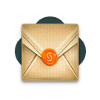
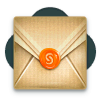
add boonk and mails to market place

diff --git a/client/public/javascripts/app.js b/client/public/javascripts/app.js
@@ -134,6 +134,20 @@ window.require.register("collections/application", function(exports, require, mo
             git: "https://github.com/mycozycloud/cozy-todos.git",
             comment: "official application",
             description: "Write your tasks, order them and execute them efficiently."
+          }, {
+            icon: "img/mails-icon.png",
+            name: "mails",
+            slug: "mails",
+            git: "https://github.com/mycozycloud/cozy-mails.git",
+            comment: "official application",
+            description: "Backup your inbox and browse them from your cozy."
+          }, {
+            icon: "img/boonk-icon.png",
+            name: "boonk",
+            slug: "boonk",
+            git: "https://github.com/frankrousseau/boonk.git",
+            comment: "community contribution",
+            description: "Aggregate your bank account data (for French citizen only)."
           }
         ];
         this.reset(apps);
@@ -1460,9 +1474,9 @@ window.require.register("views/main", function(exports, require, module) {
         this.marketView = new MarketView(this.apps);
         this.frames = this.$('#app-frames');
         this.content = this.$('#content');
-        this.resetLayoutSizes();
         $(window).resize(this.resetLayoutSizes);
-        return this.apps.fetch();
+        this.apps.fetch();
+        return this.resetLayoutSizes();
       };
 
       /* Functions
@@ -1489,7 +1503,8 @@ window.require.register("views/main", function(exports, require, module) {
         this.frames.hide();
         this.content.append(view.$el);
         this.currentView = view;
-        return $('#favicon').attr('href', "favicon.ico");
+        $('#favicon').attr('href', "favicon.ico");
+        return this.resetLayoutSizes();
       };
 
       HomeView.prototype.displayApplicationsList = function() {
@@ -1727,15 +1742,16 @@ window.require.register("views/market", function(exports, require, module) {
       };
 
       MarketView.prototype.parseGitUrl = function(url) {
-        var branch, domain, git, name, out, parsed, parts, path, proto, slug;
+        var branch, domain, error, git, name, out, parsed, parts, path, proto, slug;
         url = url.replace('git@github.com:', 'https://github.com/');
         url = url.replace('git://', 'https://');
         parsed = REPOREGEX.exec(url);
         if (parsed == null) {
-          return {
+          error = {
             error: true,
             msg: "Git url should be of form https://.../my-repo.git"
           };
+          return error;
         }
         git = parsed[0], proto = parsed[1], domain = parsed[2], path = parsed[3], branch = parsed[4];
         path = path.replace('.git', '');

diff --git a/client/public/stylesheets/app.css b/client/public/stylesheets/app.css
@@ -6083,7 +6083,7 @@ html{height:100%}
 #market-view{padding:20px}
 #your-app{padding:20px;margin-right:1%;width:auto;background:#8f9b9b;-webkit-box-shadow:0 1px 2px rgba(0,0,0,0.05);-moz-box-shadow:0 1px 2px rgba(0,0,0,0.05);box-shadow:0 1px 2px rgba(0,0,0,0.05);}
 #your-app #app-git-field{-webkit-box-sizing:border-box;-moz-box-sizing:border-box;box-sizing:border-box;width:100%;height:30px;max-width:500px;margin-right:20px}
-#your-app .error{max-width:500px;margin-right:20px}
+#your-app .error{-webkit-box-sizing:border-box;-moz-box-sizing:border-box;box-sizing:border-box;width:100%;max-width:500px;margin-right:20px}
 #app-market-list{-webkit-box-sizing:border-box;-moz-box-sizing:border-box;box-sizing:border-box;margin-top:20px}
 .cozy-app{-webkit-box-sizing:border-box;-moz-box-sizing:border-box;box-sizing:border-box;float:left;width:32.33%;height:140px;margin-right:1%;background:#8f9b9b;-webkit-box-shadow:0 1px 2px rgba(0,0,0,0.10);-moz-box-shadow:0 1px 2px rgba(0,0,0,0.10);box-shadow:0 1px 2px rgba(0,0,0,0.10);padding:1%;margin-top:1%;}
 .cozy-app img{margin:10px 10px 0 0}
